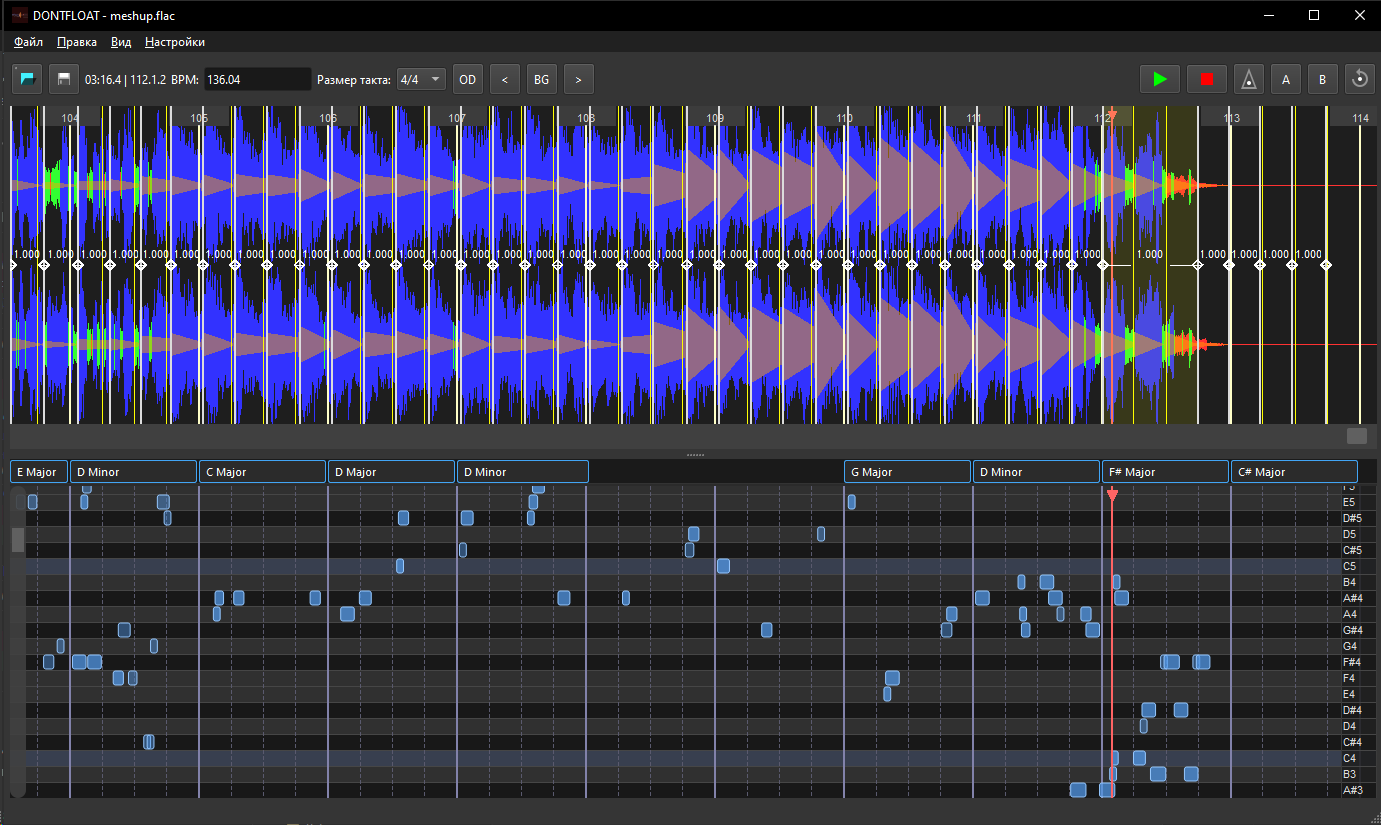
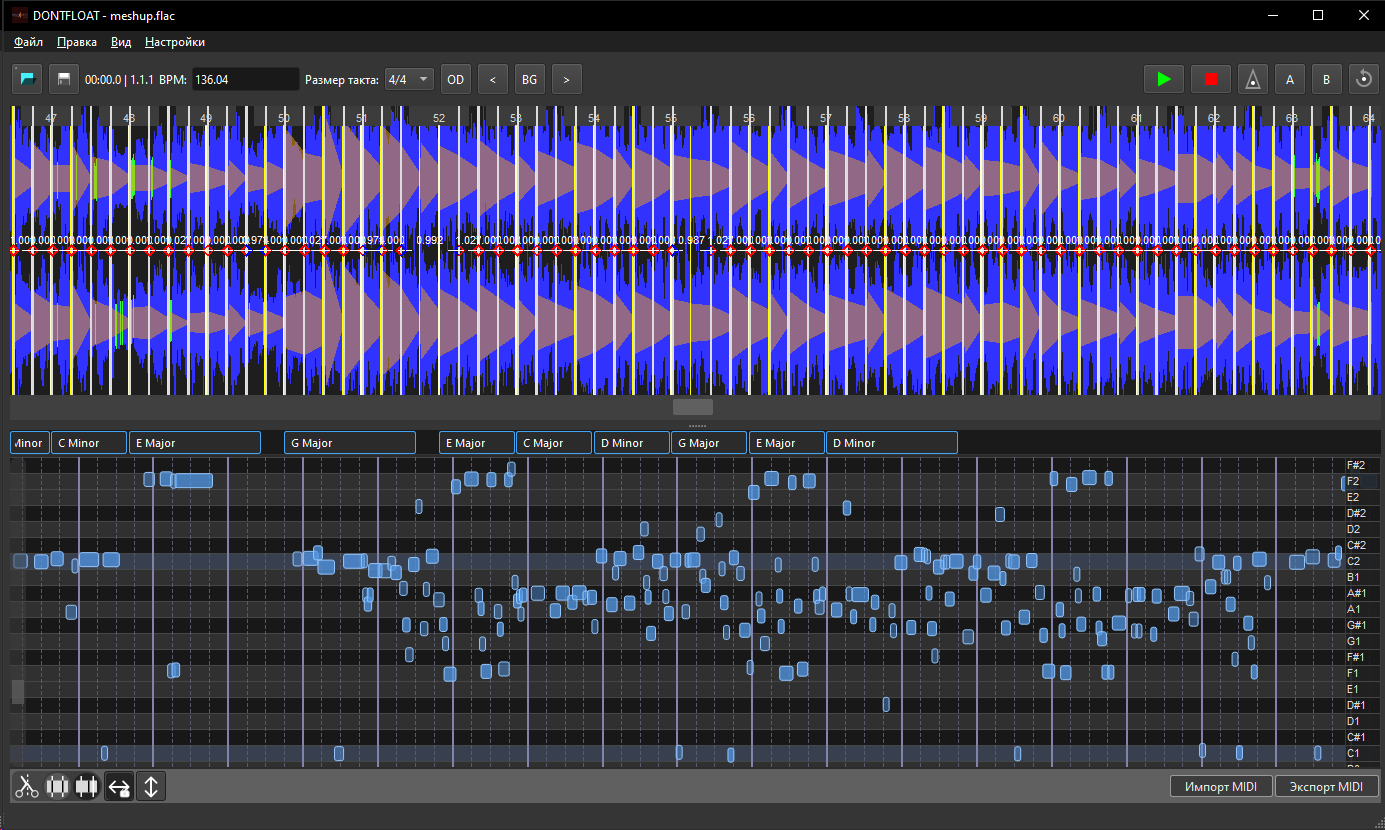
feat: обновить версию приложения до 0.1.0.0 и централизовать управление версией

diff --git a/plugins/vst3/dontfloat_vst3_plugin_impl.cpp b/plugins/vst3/dontfloat_vst3_plugin_impl.cpp
@@ -1,3 +1,5 @@
+#include "dontfloat_version.h"
+
 #include "../core/dontfloat_plugin_core.h"
 #include "../core/plugin_host_config.h"
 #include "../ui/dontfloat_plugin_editor_shell.h"
@@ -601,7 +603,7 @@ DEF_CLASS2(INLINE_UID_FROM_FUID(Steinberg::Vst::DontfloatProcessorUid),
            DONTFLOAT_VST3_DISPLAY_NAME,
            Vst::kDistributable,
            "Fx|Tools",
-           "0.0.0.1",
+           DONTFLOAT_VERSION_STRING,
            kVstVersionString,
            Dontfloat::Vst3::ProductProcessorVst3::createInstance)
 
@@ -611,7 +613,7 @@ DEF_CLASS2(INLINE_UID_FROM_FUID(Steinberg::Vst::DontfloatControllerUid),
            DONTFLOAT_VST3_CONTROLLER_NAME,
            0,
            "",
-           "0.0.0.1",
+           DONTFLOAT_VERSION_STRING,
            kVstVersionString,
            Dontfloat::Vst3::ProductControllerVst3::createInstance)
 
@@ -623,7 +625,7 @@ DEF_CLASS2(INLINE_UID_FROM_FUID(Steinberg::Vst::DontfloatAraFactoryUid),
            DONTFLOAT_VST3_ARA_FACTORY_NAME,
            0,
            "",
-           "0.0.0.1",
+           DONTFLOAT_VERSION_STRING,
            kVstVersionString,
            Dontfloat::Vst3::ProductAraMainFactoryVst3::createInstance)
 #endif

diff --git a/src/main.cpp b/src/main.cpp
@@ -1,3 +1,5 @@
+#include "dontfloat_version.h"
+
 #include <QApplication>
 #include <QIcon>
 #include <QCoreApplication>
@@ -188,7 +190,7 @@ int main(int argc, char *argv[])
         QCoreApplication app(argc, argv);
         QCoreApplication::setOrganizationName("DONTFLOAT");
         QCoreApplication::setApplicationName("DONTFLOAT");
-        QCoreApplication::setApplicationVersion("0.0.0.1");
+        QCoreApplication::setApplicationVersion(QStringLiteral(DONTFLOAT_VERSION_STRING));
 
         BPMAnalyzer::AnalysisOptions options;
         options.minBPM = 60.0f;
@@ -205,7 +207,7 @@ int main(int argc, char *argv[])
 
     QCoreApplication::setOrganizationName("DONTFLOAT");
     QCoreApplication::setApplicationName("DONTFLOAT");
-    QCoreApplication::setApplicationVersion("0.0.0.1");
+    QCoreApplication::setApplicationVersion(QStringLiteral(DONTFLOAT_VERSION_STRING));
 
     qCDebug(lcStartup) << "Qt Application создан, версия" << QT_VERSION_STR;
 

diff --git a/plugins/ara/dontfloat_ara_document_controller.cpp b/plugins/ara/dontfloat_ara_document_controller.cpp
@@ -1,4 +1,5 @@
 #include "dontfloat_ara_document_controller.h"
+#include "dontfloat_version.h"
 
 #include "../../include/pitchdetector.h"
 
@@ -19,7 +20,7 @@ constexpr const char* kFactoryId = "org.dontfloat.ara.factory";
 constexpr const char* kPlugInName = "DONTFLOAT";
 constexpr const char* kManufacturerName = "DONTFLOAT";
 constexpr const char* kInformationUrl = "https://github.com/ili4yov-ika/DONTFLOAT";
-constexpr const char* kVersionString = "0.0.0.1";
+constexpr const char* kVersionString = DONTFLOAT_VERSION_STRING;
 constexpr const char* kDocumentArchiveId = "org.dontfloat.ara.archive.v1";
 
 /** Единственный тип содержимого, который мы разбираем и отдаём хосту. */

diff --git a/plugins/clap/dontfloat_clap_track_tool.cpp b/plugins/clap/dontfloat_clap_track_tool.cpp
@@ -1,4 +1,5 @@
 #include "clap_minimal.h"
+#include "dontfloat_version.h"
 #include "../core/dontfloat_plugin_core.h"
 #include "../ui/dontfloat_qt_hosting.h"
 #include "../ui/dontfloat_track_tool_editor.h"
@@ -53,7 +54,7 @@ const clap_plugin_descriptor_t kDescriptor = {
     "https://github.com/ili4yov-ika/DONTFLOAT",
     nullptr,
     nullptr,
-    "0.0.0.1",
+    DONTFLOAT_VERSION_STRING,
     "DONTFLOAT track analysis and BPM alignment tool MVP",
     kFeatures,
 };

diff --git a/plugins/clap/dontfloat_clap_plugin_impl.cpp b/plugins/clap/dontfloat_clap_plugin_impl.cpp
@@ -1,4 +1,5 @@
 #include "clap_minimal.h"
+#include "dontfloat_version.h"
 #include "../core/dontfloat_plugin_core.h"
 #include "../core/plugin_host_config.h"
 #include "../ui/dontfloat_plugin_editor_shell.h"
@@ -94,7 +95,7 @@ const clap_plugin_descriptor_t kDescriptor = {
     "https://github.com/ili4yov-ika/DONTFLOAT",
     nullptr,
     nullptr,
-    "0.0.0.1",
+    DONTFLOAT_VERSION_STRING,
     desc().clapDescription,
     kFeatures,
 };

diff --git a/MARKDOWN/DOCUMENTATION_CHANGELOG.md b/MARKDOWN/DOCUMENTATION_CHANGELOG.md
@@ -1,5 +1,12 @@
 # История изменений документации
 
+## 2026-08-19 (версия 0.1.0.0 и один источник номера версии)
+
+- **Версия приложения и плагинов — 0.1.0.0** (была 0.0.0.1).
+- **Номер версии теперь живёт в одном месте** — `project(DONTFLOAT VERSION ...)` в корневом `CMakeLists.txt`. Оттуда CMake генерирует `dontfloat_version.h` (шаблон `cmake/dontfloat_version.h.in`, каталог `build/generated` виден всем целям), и его берут приложение (`QCoreApplication::setApplicationVersion`), дескрипторы CLAP, три класса фабрики VST3 и фабрика ARA. Раньше строка была вписана в восьми местах и уже однажды разъезжалась (см. запись про `build_rpm.sh`).
+- **Установщики читают версию оттуда же**: `build_windows_installer.bat` вытаскивает её из `CMakeLists.txt` и передаёт NSIS через `/DPRODUCT_VERSION` (в `nsis_installer.nsi` осталось только запасное значение для ручного `makensis`); `build_rpm.sh` так делал и раньше. Обновлены и запасные значения в `tools/rpm/dontfloat.spec` и `tools/macos_build.sh`.
+- Версия в документации (`MARKDOWN/*`, `docs/*`, `.cursor/commands/init.md`) приведена к 0.1.0.0; запись в истории про старый `0.0.0.1` оставлена как есть — это факт прошлого.
+
 ## 2026-08-19 (вторая дорожка в мини-DAW и обмен нотами между дорожками)
 
 - **В мини-DAW две дорожки** — по обновлённому макету `MARKDOWN/example_window_minidaw.svg`: выпадающий список «1/2» рядом с кнопкой открытия файла, две полосы волны с общей кареткой (проигранная часть первой красная, второй оранжевая) и время под ними. Выбранная дорожка обведена светлой рамкой.

diff --git a/MARKDOWN/DEVELOPMENT_GUIDE.md b/MARKDOWN/DEVELOPMENT_GUIDE.md
@@ -21,6 +21,19 @@
 - Предпочитайте ссылки указателям для параметров
 - Обрабатывайте ошибки через исключения или возвращаемые значения
 
+### Номер версии
+
+Версия — **одна на приложение и все плагины** и живёт в единственном месте:
+
+```cmake
+project(DONTFLOAT VERSION 0.1.0.0 LANGUAGES C CXX)
+```
+
+Оттуда CMake генерирует `dontfloat_version.h` (шаблон `cmake/dontfloat_version.h.in`);
+код берёт `DONTFLOAT_VERSION_STRING`, а установщики читают версию из
+`CMakeLists.txt` скриптами сборки. Вписывать номер в исходники руками нельзя —
+именно так он однажды и разъехался.
+
 ## Qt специфичные правила
 
 ### UI компоненты

diff --git a/MARKDOWN/ISSUES_AND_PLANS.md b/MARKDOWN/ISSUES_AND_PLANS.md
@@ -1,6 +1,6 @@
 # Неработающие фичи, баги и планы DONTFLOAT
 
-**Версия приложения**: 0.0.0.1
+**Версия приложения**: 0.1.0.0
 **Последнее обновление**: 2026-08-17
 
 ## Обзор
@@ -1029,7 +1029,7 @@ qDebug() << "Starting BPM analysis with" << samples.size() << "samples";
 
 ## Обновления
 
-### Версия 0.0.0.1 (Текущая)
+### Версия 0.1.0.0 (Текущая)
 - ✅ Консольный режим (реальная загрузка через `AudioFileService`)
 - ✅ Система тестирования
 - ✅ Исправление проблем UI

diff --git a/MARKDOWN/README.md b/MARKDOWN/README.md
@@ -231,7 +231,7 @@
 
 **Последнее обновление**: 2026-05-30
 
-Документация приведена в соответствие с кодовой базой DONTFLOAT версии 0.0.0.1.
+Документация приведена в соответствие с кодовой базой DONTFLOAT версии 0.1.0.0.
 
 **Актуализация 2026-02-14**:
 - ✅ Добавлена документация Windows installer (tools/build_windows_installer.bat), иконка EXE (app.rc, svg_to_ico.py), локализация (EN/RU) — README.md, DEVELOPMENT_GUIDE.md, DOCUMENTATION_CHANGELOG.md

diff --git a/docs/architecture.md b/docs/architecture.md
@@ -1,6 +1,6 @@
 # Архитектура DONTFLOAT
 
-*Версия: 0.0.0.1 · Последнее обновление: 14 июня 2026*
+*Версия: 0.1.0.0 · Последнее обновление: 14 июня 2026*
 
 ## Основные компоненты
 
@@ -361,7 +361,7 @@ tests/
 ### QSettings
 - Организация: DONTFLOAT
 - Приложение: DONTFLOAT
-- Версия: 0.0.0.1
+- Версия: 0.1.0.0
 
 ### Сохраняемые параметры
 - BPM трека

diff --git a/MARKDOWN/CHECKLIST.md b/MARKDOWN/CHECKLIST.md
@@ -1,1 +1,2 @@
-- [] Переведи номер версии программы и плагинов на 0.1.0.0
+- [x] Переведи номер версии программы и плагинов на 0.1.0.0
+- [] Почему https://github.com/ili4yov-ika/DONTFLOAT/actions/runs/32203486782/job/95921966171#step:6:200 падает, исправь

diff --git a/docs/features.md b/docs/features.md
@@ -1,6 +1,6 @@
 # Функции DONTFLOAT
 
-*Версия: 0.0.0.1 · Последнее обновление: 14 июня 2026*
+*Версия: 0.1.0.0 · Последнее обновление: 14 июня 2026*
 
 Подробное описание всех возможностей приложения.
 
